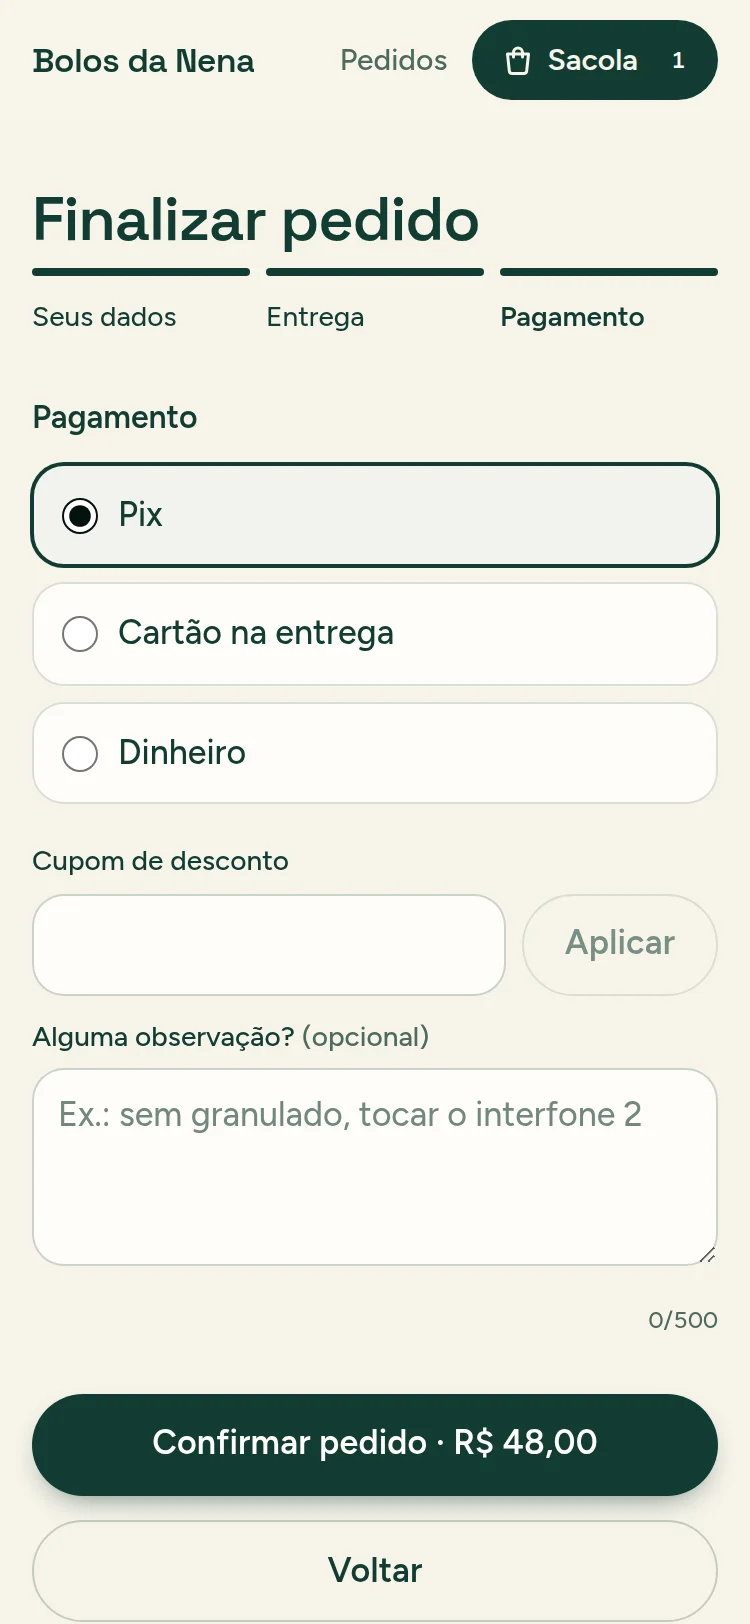
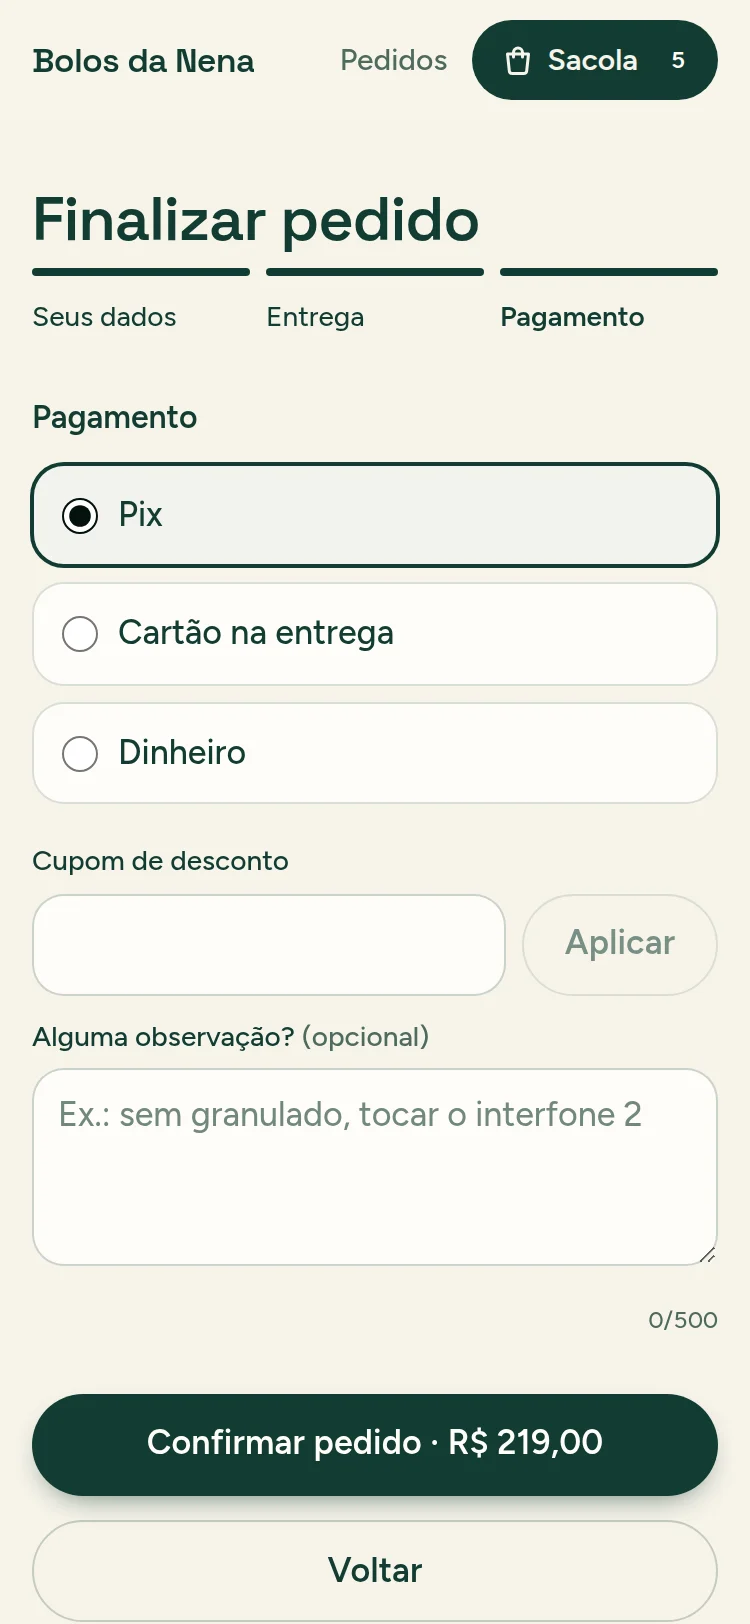
videos/vendua-audio-47s: Frame 4's checkout is order #29's checkout
Frame 4 showed Luiz checking out one chocolate cake for pickup at
R$ 48,00, while the order #29 that arrives in Frame 5 is 2× chocolate,
1× laranja, 2× milho delivered to Centro, R$ 219,00. The shoot now builds
that cart (quantities through the cart's steppers), picks delivery to
Centro and refuses to shoot unless the button reads R$ 219,00. It no
longer confirms the order: that order's number would not be #29, so the
unused vitrine-pix shot goes too. Same layout, so Frame 4's geometry holds.

Claude-Session: https://claude.ai/code/session_0167a5dMygdwUsCNzP2y6yJY

Changed region(s): [[0.184, 0.8621, 0.7973, 0.8929], [0.8893, 0.0308, 0.92, 0.0616]]

diff --git a/videos/vendua-audio-47s/capture/extracted/asset-descriptions.md b/videos/vendua-audio-47s/capture/extracted/asset-descriptions.md
@@ -66,8 +66,8 @@ the Venduá Basic look) running Bolos da Nena on the dev database, 375×812 CSS 
   brigadeiro R$ 45,00, Bolo de chocolate molhadinho R$ 48,00, each with a "+" button.
 - `vitrine-produto-750.webp` — the product page of Bolo de chocolate molhadinho, R$ 48,00, quantity
   1 and "Adicionar à sacola R$ 48,00". The "preço" beat.
-- `vitrine-pagamento-750.webp` — Finalizar pedido, step Pagamento: Pix selected (radio), Cartão na
-  entrega, Dinheiro; "Confirmar pedido · R$ 48,00". The "Pix" beat.
-- `vitrine-pix-750.webp` — the order page after confirming: "Pedido #1 recebido! R$ 48,00 · Pix",
-  "Pague com Pix R$ 48,00", "Copiar código Pix", Pix copia e cola. Not used: its "#1" would contradict
-  order #29 in Frame 5.
+- `vitrine-pagamento-750.webp` — Finalizar pedido, step Pagamento, carrying order #29's cart (2× Bolo
+  de chocolate molhadinho, 1× Bolo de laranja com calda, 2× Bolo de milho cremoso, delivery to
+  Centro): Pix selected (radio), Cartão na entrega, Dinheiro; Sacola 5; "Confirmar pedido · R$
+  219,00", the total Frame 5's order #29 arrives with. The "Pix" beat. No order is placed: its
+  number would not be #29.
